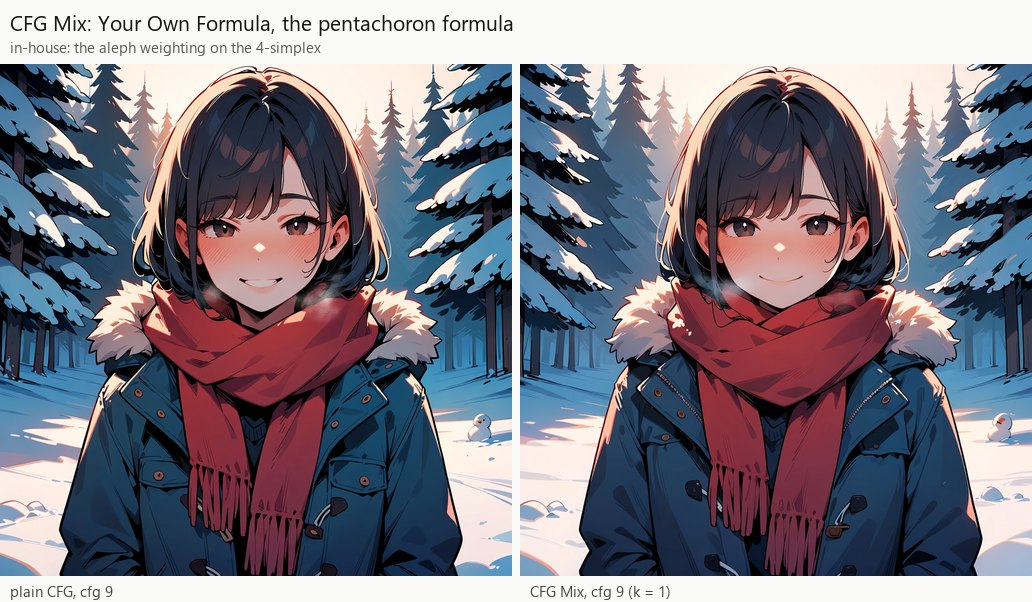
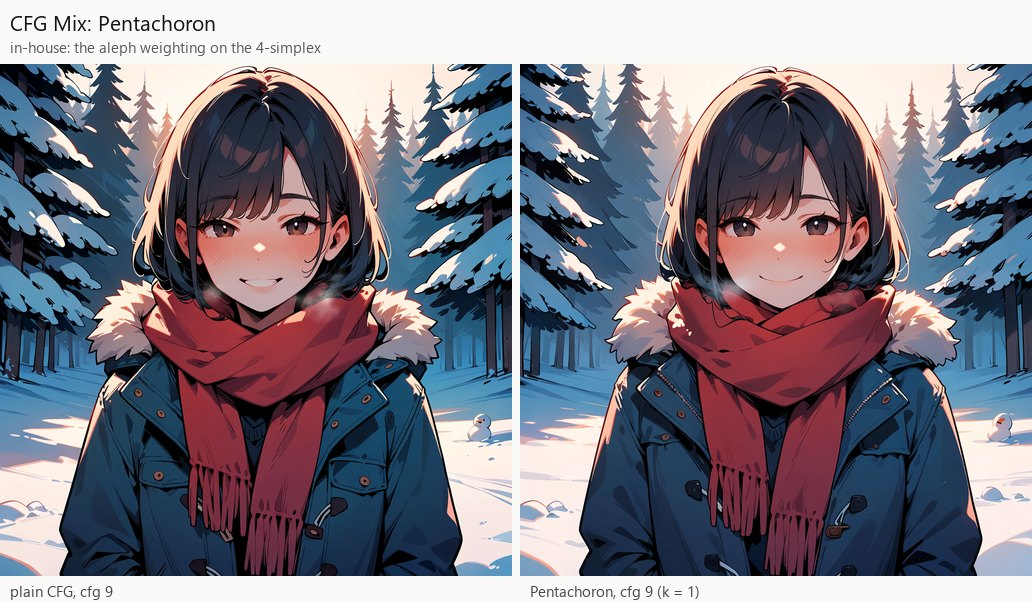
CFG Mix: Pentachoron: the pentachoron rule as its own node
The pentachoron formula (formulas/pentachoron.txt) becomes a native rule: pentachoron_cfg in the rule library
(registry entry "pentachoron", noise space, knob k) and the node CFG Mix: Pentachoron (k, scale, space; default
k 1, noise space), a "rule" mix spec like the Scale and Direction nodes. The arithmetic is the formula's, operation
for operation, computed in float64 whatever the input: in the noise and velocity spaces (float64 already) the node
equals the formula bit for bit; on the denoised image the float64 keeps the large-k limit exact (in float32 the
numerator exp(z - m) - exp(-z - m) cancels: 8e-3 of the push at k = 1e6).

Checks:
- tests: 53 pass on CPU. The rule against a written-out reference (sinh / cosh themselves, 4 channels) to 1e-10;
  16 channels finite; the 4 tau bound; k = 1e6 gives plain CFG in every space; 6 channels refused; the node against
  the formula bit for bit in the noise and velocity spaces on SDXL-like and Anima-like batches, to float32 rounding
  on the denoised image.
- In ComfyUI on the GPU: the node's images equal the formula's pixel for pixel on SDXL and Anima (smoke size), and
  the 1024 x 1024, 50-step showcase renders equal the published ones on both models; k = 1e6 matches plain CFG
  as the formula did (SDXL identical, Anima the same 0.239-level rounding).
- The showcase entries re-rendered with the node (docs/showcase graphs now use CFGP_MixPentachoron); a stage
[…]

Changed region(s): [[0.093, 0.0299, 0.4961, 0.0598], [0.4961, 0.9568, 0.6512, 1.0]]

diff --git a/tests/test_engine.py b/tests/test_engine.py
@@ -834,6 +834,80 @@ def test_pentachoron_formula_on_4_and_16_channels():
     assert out.shape == x.shape and bool(torch.isfinite(out).all())
 
 
+def pentachoron_plan(k=1.0, space="eps"):
+    return plan_with(mix={"kind": "rule", "rule": "pentachoron", "knobs": {"k": k}, "space": space, "scale": -1.0})
+
+
+def penta_reference(c, u, w, k=1.0):
+    """The pentachoron rule written out for 4 channels with sinh and cosh themselves (no overflow guard)."""
+    r = 1 / math.sqrt(5)
+    V = torch.tensor([[1., 1., 1., -r], [1., -1., -1., -r], [-1., 1., -1., -r], [-1., -1., 1., -r],
+                      [0., 0., 0., 4 * r]], dtype=c.dtype) * (math.sqrt(5) / 4)
+    a = torch.einsum("kc,bchw->bkhw", V, (w - 1) * (c - u))
+    tau = k * a.pow(2).mean(dim=(1, 2, 3), keepdim=True).sqrt() + 1e-12
+    z = a / tau
+    return c + 4 * tau * torch.einsum("kc,bkhw->bchw", V, torch.sinh(z)) / torch.cosh(z).sum(dim=1, keepdim=True)
+
+
+def test_pentachoron_rule_on_4_and_16_channels():
+    torch.manual_seed(2)
+    c4 = torch.randn(2, 4, 16, 16, dtype=torch.float64)
+    u4 = c4 + 0.15 * torch.randn_like(c4)
+    ref = penta_reference(c4, u4, 7.0)
+    assert float((cv.pentachoron_cfg(c4, u4, 7.0) - ref).abs().max()) <= 1e-10 * (1 + float(ref.abs().max()))
+    c16 = torch.randn(2, 16, 16, 16, dtype=torch.float64)
+    u16 = c16 + 0.15 * torch.randn_like(c16)
+    out = cv.pentachoron_cfg(c16, u16, 7.0)
+    assert out.shape == c16.shape and bool(torch.isfinite(out).all())
+    assert close(cv.pentachoron_cfg(c16, u16, 7.0, k=1e6), cfg(c16, u16, 7.0), 1e-6)     # a large k: plain CFG
+    # each pixel's push in each group of 4 channels stays within 4 tau (tau = the image's RMS vertex coordinate)
+    r = 1 / math.sqrt(5)
+    V = torch.tensor([[1., 1., 1., -r], [1., -1., -1., -r], [-1., 1., -1., -r], [-1., -1., 1., -r], [0., 0., 0., 4 * r]],
+                     dtype=torch.float64) * (math.sqrt(5) / 4)
+    a = torch.einsum('kc,bgchw->bgkhw', V, (6.0 * (c16 - u16)).reshape(2, 4, 4, 16, 16))
+    tau = a.pow(2).mean(dim=(1, 2, 3, 4)).sqrt().view(2, 1, 1, 1)
+    push = (out - c16).reshape(2, 4, 4, 16, 16).norm(dim=2)
+    assert bool((push <= 4 * tau * (1 + 1e-9)).all()) and float(push.max()) > 0
+    try:
+        cv.pentachoron_cfg(torch.randn(1, 6, 8, 8), torch.randn(1, 6, 8, 8))
+    except ValueError as e:
+        assert "divisible by 4" in str(e)
+    else:
+        raise AssertionError("6 channels must raise")
+    # through the engine: an SDXL batch in every space, and an Anima latent (16 channels, single frame)
+    x, c, u, sig = batch()
+    for space in engine.SPACES:
+        out = run(pentachoron_plan(space=space), x, c, u, sig)
+        assert out.shape == x.shape and bool(torch.isfinite(out).all()), space
+    for space in engine.SPACES:            # the plain-CFG limit holds in every space (the rule computes in float64)
+        out = run(pentachoron_plan(k=1e6, space=space), x, c, u, sig)
+        assert out.dtype == x.dtype and close(out, cfg(c, u, 6.0), 1e-6), space
+    c32, u32 = c16.float(), u16.float()    # a float32 input: computed in float64, returned in float32
+    out32 = cv.pentachoron_cfg(c32, u32, 7.0, k=1e6)
+    assert out32.dtype == torch.float32 and close(out32, cfg(c32, u32, 7.0), 1e-6)
+    xf, cf, uf, sf = flow_batch(channels=16, frame=True)
+    out = run_flow(pentachoron_plan(), xf, cf, uf, sf)
+    assert out.shape == xf.shape and bool(torch.isfinite(out).all())
+    assert "pentachoron" in engine.describe_plan(pentachoron_plan())
+
+
+def test_pentachoron_node_equals_the_formula():
+    # the node's rule and formulas/pentachoron.txt through the formula box: the same tensor, bit for bit, in the
+    # noise and velocity spaces (both float64 there); on the denoised image the formula runs in float32 and the node
+    # in float64, so they agree to float32 rounding
+    text = open(os.path.join(ROOT, "formulas", "pentachoron.txt"), encoding="utf-8").read()
+    x, c, u, sig = batch()
+    xf, cf, uf, sf = flow_batch(channels=16, frame=True)
+    for space in ("eps", "v"):
+        assert torch.equal(run(pentachoron_plan(space=space), x, c, u, sig),
+                           run(formula_plan(text, space), x, c, u, sig)), space
+        assert torch.equal(run_flow(pentachoron_plan(space=space), xf, cf, uf, sf),
+                           run_flow(formula_plan(text, space), xf, cf, uf, sf)), space
+    assert close(run(pentachoron_plan(space="x0"), x, c, u, sig), run(formula_plan(text, "x0"), x, c, u, sig), 1e-5)
+    k_text = text.replace("k = 1.0", "k = 0.25", 1)
+    assert torch.equal(run(pentachoron_plan(k=0.25), x, c, u, sig), run(formula_plan(k_text), x, c, u, sig))
+
+
 class _formula_python:
     """Turn the full-Python opt-in on for a block (it is off by default), and restore it after."""
 

diff --git a/tools/smoke_test.py b/tools/smoke_test.py
@@ -31,9 +31,9 @@ ROOT = os.path.dirname(HERE)                     # the repository = the custom n
 sys.path.insert(0, ROOT)
 from cfg_megapack import papers as _papers  # noqa: E402  (the paper node ids; imports without ComfyUI)
 
-NODE_IDS = ["CFGP_When", "CFGP_WeakPerturbed", "CFGP_MixScale", "CFGP_MixDirection", "CFGP_MixFormula",
-            "CFGP_WhereBands", "CFGP_WhereRegion", "CFGP_Correct", "CFGP_GovernAngle", "CFGP_Probe", "CFGP_Readout",
-            "CFGP_Clear", "CFGP_ThreeWayGuider"] + [f"CFGP_{p.key}" for p in _papers.PAPERS]
+NODE_IDS = ["CFGP_When", "CFGP_WeakPerturbed", "CFGP_MixScale", "CFGP_MixDirection", "CFGP_MixPentachoron",
+            "CFGP_MixFormula", "CFGP_WhereBands", "CFGP_WhereRegion", "CFGP_Correct", "CFGP_GovernAngle", "CFGP_Probe",
+            "CFGP_Readout", "CFGP_Clear", "CFGP_ThreeWayGuider"] + [f"CFGP_{p.key}" for p in _papers.PAPERS]
 
 
 def _find_comfy():
@@ -229,6 +229,10 @@ def formula(text, space="noise (eps)"):
     return ("CFGP_MixFormula", {"formula": text, "space": space, "scale": -1.0})
 
 
+def pentachoron(k=1.0, space="noise (eps)"):
+    return ("CFGP_MixPentachoron", {"k": k, "scale": -1.0, "space": space})
+
+
 def govern(**kw):
     d = {"max_angle_degrees": 30.0, "min_angle_degrees": 0.0, "unit": "whole image (one vector per image)",
          "home": "conditional (how far guidance turns the prediction)", "start_percent": 0.0, "end_percent": 1.0,
@@ -296,6 +300,8 @@ CASES = {
         mix_dir("angle_limit", max_angle_degrees=13.0), bands(high_multiplier=4.0)]), None),
     "formula_pentachoron": (chain("formula_pentachoron", [formula(PENTA)]), None),
     "formula_pentachoron_cfg_limit": (chain("formula_pentachoron_cfg_limit", [formula(PENTA_CFG)]), "plain_resident"),
+    "pentachoron": (chain("pentachoron", [pentachoron()]), None),
+    "pentachoron_cfg_limit": (chain("pentachoron_cfg_limit", [pentachoron(k=1e6)]), "plain_resident"),
     "full_stack_probe": (with_readout(chain("full_stack_probe", [
         when(shape="cosine_down", start_percent=0.0, end_percent=0.9), weak(scale=1.5), mix_dir("apg"),
         bands(high_multiplier=1.2), correct("rescale_std", strength=0.5), govern(max_angle_degrees=30.0),
@@ -323,7 +329,8 @@ EXPECT_ERROR = dict(SAFETY_ERROR)          # name -> a phrase the refusal must c
 # most in bf16 on a GPU (256 x 256, 6 steps, er_sde: mean 0.05 of 255 on the CPU, 2.6 on the GPU). Such a case
 # passes as ROUNDING when its mean difference stays under 5 levels; formula_cfg_x0 (same arithmetic as plain CFG)
 # must stay SAME, which rules out a fault in the formula path itself.
-ROUNDING_ONLY = {"formula_cfg_eps", "formula_cfg_velocity", "formula_flow_variables", "formula_pentachoron_cfg_limit"}
+ROUNDING_ONLY = {"formula_cfg_eps", "formula_cfg_velocity", "formula_flow_variables", "formula_pentachoron_cfg_limit",
+                 "pentachoron_cfg_limit"}
 
 if ANIMA:
     # the neutral set on 16-channel single-frame latents and the flow conversions, the flow variables inside ComfyUI,
@@ -333,7 +340,7 @@ if ANIMA:
     PICK = ("base", "plain_resident", "standard_rule", "formula_cfg_eps", "formula_cfg_x0", "bands_neutral", "region_full_mask",
             "guider_reference", "guider_negative_as_null", "govern_neutral", "formula_pentachoron_cfg_limit",
             "cfg_zero_star", "apg", "angle_limit", "weak_seg", "govern_image_20", "govern_pixel_20",
-            "formula_pentachoron", "when_window_chain_outside", "correct_rescale")
+            "formula_pentachoron", "pentachoron", "pentachoron_cfg_limit", "when_window_chain_outside", "correct_rescale")
     CASES = {**{n: CASES[n] for n in PICK},
              "formula_flow_variables": (chain("formula_flow_variables", [formula(FLOW_CHECK)]), "plain_resident"),
              "formula_cfg_velocity": (chain("formula_cfg_velocity", [formula("u + w * (c - u)", "velocity (v)")]),

diff --git a/cfg_megapack/cfg_variants.py b/cfg_megapack/cfg_variants.py
@@ -938,6 +938,41 @@ def reinhard_cfg(d_c, d_u, w=7.5, multiplier=1.0):
     return d_u + w * (g / mag * new)
 
 
+@_keep_dtype
+def pentachoron_cfg(d_c, d_u, w=7.5, k=1.0):
+    """The pentachoron rule [noise]: the aleph weighting on the 4-simplex. In-house (CFG Megapack, AbstractPhil and
+    Claude 2026; no paper).
+
+    g = (w - 1)(d_c - d_u), plain CFG's push past the conditional. Every group of 4 channels holds one pentachoron,
+    V = the 5 unit vertices of a regular 4-simplex (pairwise cosine -1/4): a = V g per pixel (its 5 vertex
+    coordinates), tau = k RMS(a) per sample, z = a / tau, and P = 4 tau sum_k sinh(z_k) v_k / sum_j cosh(z_j):
+    signed amplitudes, never a selector. d_hat = d_c + P. Small pushes return as plain CFG (P -> g as z -> 0, since
+    V^T V = 5/4 I); a pixel's push in a group stays within 4 tau, and a pixel pushing hard along one vertex damps its
+    other four. k: larger is closer to plain CFG (1e6 = plain CFG), smaller a firmer per-pixel limit. Needs a channel
+    count divisible by 4 (SDXL / SD1.5: one pentachoron; Anima and other 16-channel latents: four).
+    Computed in float64 whatever the input (the result comes back in the input's dtype): as z -> 0 the numerator
+    exp(z - m) - exp(-z - m) cancels, and float32 would lose the plain-CFG limit (8e-3 of the push at k = 1e6).
+    Defaults: k 1. Extra cost: none.
+    """
+    if d_c.shape[1] % 4:
+        raise ValueError(f"the pentachoron rule needs a channel count divisible by 4, not {d_c.shape[1]}")
+    out_dtype = d_c.dtype
+    d_c, d_u = d_c.double(), d_u.double()
+    w = _scalar(w, d_c)
+    r = 1 / math.sqrt(5)
+    V = torch.tensor([[1., 1., 1., -r], [1., -1., -1., -r], [-1., 1., -1., -r], [-1., -1., 1., -r],
+                      [0., 0., 0., 4 * r]], dtype=d_c.dtype, device=d_c.device) * (math.sqrt(5) / 4)
+    g = (w - 1) * (d_c - d_u)
+    G = g.reshape(g.shape[0], g.shape[1] // 4, 4, *g.shape[2:])          # groups of 4 channels
+    a = torch.einsum("kc,bgc...->bgk...", V, G)
+    tau = k * a.pow(2).mean(dim=tuple(range(1, a.ndim)), keepdim=True).sqrt() + 1e-12
+    z = a / tau
+    m = z.abs().amax(dim=2, keepdim=True)                                   # overflow guard; cancels exactly
+    ep, en = torch.exp(z - m), torch.exp(-z - m)
+    P = 4 * tau * torch.einsum("kc,bgk...->bgc...", V, ep - en) / (ep + en).sum(dim=2, keepdim=True)
+    return (d_c + P.reshape(g.shape)).to(out_dtype)
+
+
 class SMCState:
     """Stores the corrected guidance error of the previous step for SMC-CFG."""
 
@@ -3428,6 +3463,8 @@ REGISTRY: Dict[str, Dict[str, Any]] = {
     "mahiro": _reg(mahiro, "A", "x0", node=True, cite="ComfyUI Mahiro (PR #5975)", batch_coupled=True),
     "reinhard_cfg": _reg(reinhard_cfg, "A", "x0", {"multiplier": 1.0}, node=True,
                          cite="ComfyUI LatentOperationTonemapReinhard"),
+    "pentachoron": _reg(pentachoron_cfg, "A", "noise", {"k": 1.0}, node=True,
+                        cite="in-house, CFG Megapack (AbstractPhil and Claude 2026)"),
     "smc_cfg": _reg(smc_cfg, "A", "noise", {"lam": 5.0, "k": 0.2, "switching": "sign"}, node=True,
                     state=lambda k: SMCState(), cite="Wang et al. 2026, arXiv 2603.03281"),
     "pmc_cfg": _reg(pmc_cfg, "A", "x0", {"gamma_cap": 1.05}, node=True, cite="Peng & Ma 2026, arXiv 2609.24287"),

diff --git a/cfg_megapack/nodes.py b/cfg_megapack/nodes.py
@@ -236,6 +236,41 @@ class CFGMixDirection(io.ComfyNode):
         return io.NodeOutput(_patched(model, lambda p: p.__setitem__("mix", spec)))
 
 
+class CFGMixPentachoron(io.ComfyNode):
+    @classmethod
+    def define_schema(cls):
+        return io.Schema(
+            node_id="CFGP_MixPentachoron",
+            display_name="CFG Mix: Pentachoron",
+            category=f"{CAT}/3 mix",
+            description=("In-house: the aleph weighting on the 4-simplex. Each pixel's plain-CFG push past the "
+                         "conditional, (w - 1)(c - u), is read on the 5 vertices of a regular pentachoron in every "
+                         "group of 4 latent channels and rebuilt as sum_k sinh(z_k) v_k / sum_j cosh(z_j): signed "
+                         "amplitudes that never select. Small pushes come back as plain CFG; a pixel's push in a group "
+                         "stays within 4 tau (tau = k times the image's RMS vertex coordinate), and a pixel pushing "
+                         "hard along one vertex damps its other four. Latents whose channel count divides by 4: SDXL "
+                         "and SD1.5 (one pentachoron), Anima (16 channels, four)."),
+            search_aliases=["pentachoron", "4-simplex", "simplex guidance", "aleph"],
+            inputs=[
+                io.Model.Input("model"),
+                io.Float.Input("k", default=1.0, min=0.01, max=1000000.0, step=0.01,
+                               tooltip="Temperature: larger is closer to plain CFG (1000000 is plain CFG), smaller "
+                                       "a firmer limit on each pixel's push."),
+                io.Float.Input("scale", default=-1.0, min=-1.0, max=100.0, step=0.1, tooltip=SCALE_TIP),
+                io.Combo.Input("space", options=SPACE_FIXED, default="noise (eps)",
+                               tooltip="Where the rule is computed; the rule is nonlinear, so the space changes the "
+                                       "image. Noise is its own space (on flow models, the noise itself)."),
+            ],
+            outputs=[io.Model.Output()],
+        )
+
+    @classmethod
+    def execute(cls, model, k, scale, space) -> io.NodeOutput:
+        spec = {"kind": "rule", "rule": "pentachoron", "scale": float(scale), "knobs": {"k": float(k)},
+                "space": _space(space)}
+        return io.NodeOutput(_patched(model, lambda p: p.__setitem__("mix", spec)))
+
+
 FORMULA_HELP = (
     "Write the guided prediction as a Python expression (or several lines that assign `result`). "
     "Variables: c and u (conditional and unconditional predictions in the chosen space), w (the scheduled scale), "
@@ -668,8 +703,8 @@ def _paper_node(p: papers.Paper) -> type:
 
 PAPER_NODES = [_paper_node(p) for p in papers.PAPERS]
 
-NODES = [CFGWhen, CFGWeakPerturbed, CFGMixScale, CFGMixDirection, CFGMixFormula, CFGWhereBands, CFGWhereRegion,
-         CFGCorrect, CFGGovernAngle, CFGProbe, CFGReadout, CFGClear, CFGThreeWayGuider] + PAPER_NODES
+NODES = [CFGWhen, CFGWeakPerturbed, CFGMixScale, CFGMixDirection, CFGMixPentachoron, CFGMixFormula, CFGWhereBands,
+         CFGWhereRegion, CFGCorrect, CFGGovernAngle, CFGProbe, CFGReadout, CFGClear, CFGThreeWayGuider] + PAPER_NODES
 
 
 class CFGMegapackExtension(ComfyExtension):

diff --git a/tools/showcase.py b/tools/showcase.py
@@ -152,14 +152,13 @@ def stage_cases():
     gov = {"max_angle_degrees": 20.0, "min_angle_degrees": 0.0, "unit": "whole image (one vector per image)",
            "home": "conditional (how far guidance turns the prediction)", "start_percent": 0.0, "end_percent": 1.0,
            "space": "auto (the method's own)"}
-    penta = open(os.path.join(ROOT, "formulas", "pentachoron.txt"), encoding="utf-8").read()
     corr = {"method": "rescale_std", "strength": 0.7, "cap_ratio": 1.05, "mimic_scale": 4.0, "percentile": 0.995,
             "softness": 1.0, "space": "auto (the method's own)"}
     return {
         "Govern20": ("CFG Govern: Angle Band, 20 degrees", "in-house: after the AlephLM anchor governor",
                      [("CFGP_GovernAngle", gov)], "max 20 deg, whole image"),
-        "Pentachoron": ("CFG Mix: Your Own Formula, the pentachoron formula", "in-house: the aleph weighting on the 4-simplex",
-                        [("CFGP_MixFormula", {"formula": penta, "space": "noise (eps)", "scale": -1.0})], "k = 1"),
+        "Pentachoron": ("CFG Mix: Pentachoron", "in-house: the aleph weighting on the 4-simplex",
+                        [("CFGP_MixPentachoron", {"k": 1.0, "scale": -1.0, "space": "noise (eps)"})], "k = 1"),
         "CorrectRescale": ("CFG Correct: Magnitude, rescale_std", "Lin et al. 2024 (guidance rescale as a correction)",
                            [("CFGP_Correct", corr)], "strength 0.7"),
     }
@@ -271,7 +270,9 @@ def main():
         with open(os.path.join(graph_dir, f"{key}.json"), "w", encoding="utf-8") as f:
             json.dump(g, f, indent=1)
         guider = key in papers.BY_KEY and papers.BY_KEY[key].stage == "guider"
-        right_label = f"{title.split(':')[0].split(' (')[0]}, cfg {cfg:g}" + (f" ({note})" if note else "")
+        # a paper node is named before its colon (APG: ...); a stage node after it (CFG Mix: Pentachoron)
+        short = title.split(": ", 1)[1].split(",")[0] if title.startswith("CFG ") and ": " in title else title.split(":")[0]
+        right_label = f"{short.split(' (')[0]}, cfg {cfg:g}" + (f" ({note})" if note else "")
         if guider:
             panels = [(guider_refs[0], f"cfg {BASE_CFG:g}, no negative"),
                       (guider_refs[1], f"cfg {BASE_CFG:g}, negative prompt: {GUIDE_NEG}"),

diff --git a/cfg_megapack/engine.py b/cfg_megapack/engine.py
@@ -472,6 +472,7 @@ MIX_RULES: Dict[str, Tuple[str, Tuple[str, ...]]] = {
     "tangential_damping": ("tcfg", ()),
     "angle_limit": ("adg", ("max_angle",)),
     "mahiro": ("mahiro", ()),
+    "pentachoron": ("pentachoron", ("k",)),
 }
 THREE_WAY_RULES = ("perp_neg", "separate_negative", "negative_as_null")
 

diff --git a/README.md b/README.md
@@ -64,7 +64,7 @@ At every step the model gives a conditional prediction `c` and an unconditional 
 |---|---|---|---|
 | 1 | When | CFG When: Schedule and Window | how the scale changes over the run, and where guidance is on at all |
 | 2 | Weak branch | CFG Weak Branch: Perturbed Self-Attention | an extra pass of the model with some self-attention degraded, to guide away from |
-| 3 | Combine | CFG Mix: Scale Rules, Direction Rules, Your Own Formula | how `c` and `u` become one prediction |
+| 3 | Combine | CFG Mix: Scale Rules, Direction Rules, Pentachoron, Your Own Formula | how `c` and `u` become one prediction |
 | 4 | Where | CFG Where: Frequency Bands, Region Mask | how strongly guidance acts on coarse versus fine detail, and inside versus outside a mask |
 | 5 | Correct | CFG Correct: Magnitude | pulls the result's size back toward the conditional prediction (against over-saturation) |
 | 6 | Govern | CFG Govern: Angle Band | holds the angle between the result and its home inside a band: the last word on direction |
@@ -201,9 +201,9 @@ Two stages come from research lines of our own, both published with their code:
   On SDXL (1024 x 1024, 50 steps, cfg 7) the guided prediction sits 25 to 33 degrees from the conditional one over
   the first 10 steps, under 20 degrees from the 14th step and under 10 from the 23rd, so a leash of about 20
   degrees acts on the composition steps and leaves the detail steps alone.
-- **The aleph weighting and the pentachoron formula** (`formulas/pentachoron.txt`, for CFG Mix: Your Own Formula).
+- **The aleph weighting on the pentachoron** (CFG Mix: Pentachoron).
   The aleph address of AlephLLM and [amoe-lora](https://github.com/AbstractEyes/amoe-lora) weighs anchors by
-  `sinh(u_k) / sum_j cosh(u_j)`: signed amplitudes that never select. The formula reads each pixel's plain-CFG push,
+  `sinh(u_k) / sum_j cosh(u_j)`: signed amplitudes that never select. The node reads each pixel's plain-CFG push,
   in every group of 4 latent channels, on the 5 vertices of a regular pentachoron (the 4-simplex; unit vertices,
   pairwise cosine -1/4), and rebuilds it with that weighting: small pushes come back as plain CFG, no push exceeds
   4 tau, and a pixel pushing hard along one vertex damps its other four. SDXL's 4 channels hold one pentachoron;
@@ -232,9 +232,9 @@ Run these with ComfyUI's own Python (the tools also use Pillow and numpy, which 
 
 | Command (from this folder) | What it checks | Needs |
 |---|---|---|
-| `python tests/test_engine.py` | 51 checks of the guidance maths: neutral settings, library agreement, schedules and windows, bands, regions, corrections, the governor, the guider rules, the probe, plan install and clear, flow models (the shift, the space converters, sigma 1, single-frame latents), the transformer patches, every paper node on eps and flow models, the model-aware defaults, and the checked formula language (53 escape attempts refused; 15 formulas, every documented one among them, bit-identical to full Python) | CPU |
-| `python tools/smoke_test.py --port 8188` | 46 SDXL cases through ComfyUI's API: every stage node runs, neutral cases match plain sampling, variants change the image, a formula's import and file write are refused | a running ComfyUI (CPU-only works) |
-| `python tools/smoke_test.py --port 8188 --model anima` | 26 Anima cases, including the flow variables read inside ComfyUI and SEG on the transformer | the Anima files |
+| `python tests/test_engine.py` | 53 checks of the guidance maths: neutral settings, library agreement, schedules and windows, bands, regions, corrections, the governor, the guider rules, the probe, plan install and clear, flow models (the shift, the space converters, sigma 1, single-frame latents), the transformer patches, every paper node on eps and flow models, the model-aware defaults, the pentachoron rule (against a written-out reference, and bit for bit against its formula), and the checked formula language (53 escape attempts refused; 15 formulas, every documented one among them, bit-identical to full Python) | CPU |
+| `python tools/smoke_test.py --port 8188` | 48 SDXL cases through ComfyUI's API: every stage node runs, neutral cases match plain sampling, variants change the image, a formula's import and file write are refused | a running ComfyUI (CPU-only works) |
+| `python tools/smoke_test.py --port 8188 --model anima` | 28 Anima cases, including the flow variables read inside ComfyUI and SEG on the transformer | the Anima files |
 | `python tools/smoke_test.py --port 8188 --formula-python --only formula_python_import` | a formula that imports a module runs, and gives plain CFG back | a ComfyUI started with `CFG_MEGAPACK_FORMULA_PYTHON=1` |
 | `python tools/smoke_test.py --port 8188 --papers` (add `--model anima` for Anima) | every paper node with its defaults | a running ComfyUI |
 | `python tools/determinism_check.py --port 8188` | ComfyUI's own run-to-run repeatability and the neutral equalities | a running ComfyUI |

diff --git a/HOWTO.md b/HOWTO.md
@@ -25,6 +25,7 @@ fixed to compare settings on the same image (only the changed branch runs again)
 | CFG Megapack - stage chain AB | plain CFG against the whole chain of stage nodes; only the APG mix is on, the other stages are bypassed | select a stage node and press Ctrl+B to switch it on; the Plan Readout shows what is active |
 | CFG Megapack - paper node AB | plain CFG against one paper node (APG) at cfg 14, where high-scale artifacts show | swap the APG node for any other paper node (double-click the canvas, type the paper's name) |
 | CFG Megapack - your formula AB | plain CFG against a formula you type | edit the formula; see [Your Own Formula](#3-cfg-mix-your-own-formula) |
+| CFG Megapack - pentachoron AB | plain CFG against the [Pentachoron](#3-cfg-mix-pentachoron) node | change k: larger is closer to plain CFG (1000000 is plain CFG) |
 | CFG Megapack - pentachoron formula AB | plain CFG against the pentachoron formula | change `k = 1.0` in the first line: larger is closer to plain CFG |
 | CFG Megapack - angle governor AB | plain CFG against the angle governor at 20 degrees, whole image | try 10-30 degrees, or unit = each pixel |
 | CFG Megapack - negative vs null guider AB | ComfyUI's CFG guider against the positive/negative/null guider (Perp-Neg) | uses SamplerCustomAdvanced; the null prompt is the empty text |
@@ -107,6 +108,39 @@ projections, caps and clips do not. **auto** uses the space the method was publi
 denoised image for APG and the angle rule; on flow models methods published on the noise run on the velocity.
 The Adaptive Guidance paper node starts on the denoised image instead (its section says why).
 
+### 3 CFG Mix: Pentachoron
+
+In-house: the aleph weighting on the 4-simplex. The node reads each pixel's plain-CFG push past the conditional,
+`g = (w - 1)(c - u)`, on the 5 vertices of a regular pentachoron (the 4-simplex: 5 unit vertices in 4 dimensions,
+each pair at cosine -1/4) in every group of 4 latent channels, and rebuilds it with signed amplitudes that never
+select a vertex:
+
+```
+a   = V g                          the push's 5 vertex coordinates at each pixel
+tau = k * RMS(a)                   one scale per image
+z   = a / tau
+P   = 4 tau * sum_k sinh(z_k) v_k / sum_j cosh(z_j)
+out = c + P
+```
+
+Small pushes come back as plain CFG; a pixel's push in a group stays within `4 tau`, and a pixel pushing hard along
+one vertex damps its other four (the budget is shared). SDXL and SD1.5 latents hold one pentachoron per pixel (4
+channels); Anima's hold four (16 channels). A channel count that does not divide by 4 stops with a message.
+
+| Input | What it does |
+|---|---|
+| k | temperature (default 1): larger is closer to plain CFG (1000000 is plain CFG); smaller limits each pixel's push more firmly |
+| scale | the guidance scale w; -1 uses the sampler's cfg |
+| space | where the rule is computed (default noise). The rule is nonlinear, so the space changes the image; on flow models the noise is the noise itself |
+
+![The pentachoron on SDXL](docs/images/sdxl/Pentachoron.jpg)
+
+<sub>SDXL, cfg 14, k = 1; node graph: [docs/showcase/sdxl/Pentachoron.json](docs/showcase/sdxl/Pentachoron.json)</sub>
+
+![The pentachoron on Anima](docs/images/anima/Pentachoron.jpg)
+
+<sub>Anima (16 channels, four pentachora), cfg 9, k = 1; node graph: [docs/showcase/anima/Pentachoron.json](docs/showcase/anima/Pentachoron.json)</sub>
+
 ### 3 CFG Mix: Your Own Formula
 
 Type the guided prediction as a Python expression, or several lines that assign `result`.
@@ -165,17 +199,9 @@ It is off unless you set it, and ComfyUI reads it when a formula compiles, so a 
 to pick it up. With it on, every workflow you queue runs its formulas as Python on your machine, and a formula can
 then reach anything Python can: queue only workflows you trust. The console notes it once, at the first formula.
 
-Anima's latents arrive as (batch, 16, height, width). `formulas/pentachoron.txt` is a longer example (paste it whole, space noise):
-the aleph weighting on the 5 vertices of a regular pentachoron in every group of 4 channels; `k` sets how firmly
-large pushes are limited (1e6 = plain CFG).
-
-![The pentachoron formula on SDXL](docs/images/sdxl/Pentachoron.jpg)
-
-<sub>SDXL, cfg 14, k = 1; node graph: [docs/showcase/sdxl/Pentachoron.json](docs/showcase/sdxl/Pentachoron.json)</sub>
-
-![The pentachoron formula on Anima](docs/images/anima/Pentachoron.jpg)
-
-<sub>Anima (16 channels, four pentachora), cfg 9, k = 1; node graph: [docs/showcase/anima/Pentachoron.json](docs/showcase/anima/Pentachoron.json)</sub>
+Anima's latents arrive as (batch, 16, height, width). `formulas/pentachoron.txt` is a longer example (paste it
+whole, space noise): the [Pentachoron](#3-cfg-mix-pentachoron) node's rule written as a formula, which gives the
+same numbers bit for bit.
 
 ### 4 CFG Where: Frequency Bands
 
